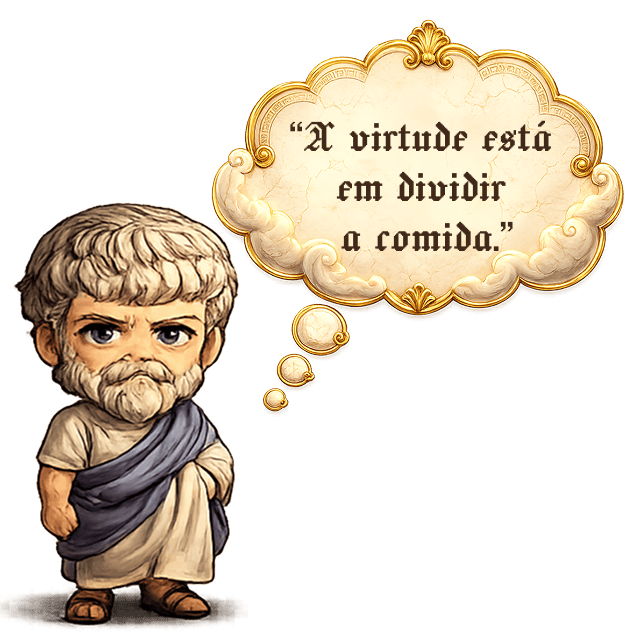
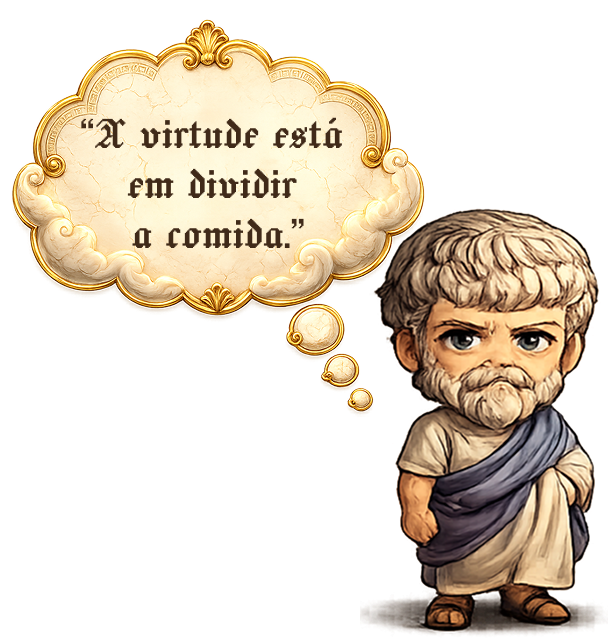
Finalização da tela de simulação do Jantar dos Filósofos

diff --git a/Jantar_Dos_Filosofos/css/style.css b/Jantar_Dos_Filosofos/css/style.css
@@ -2,7 +2,7 @@
 * Autor............: Maxsuel Aparecido Lima Santos
 * Matricula........: 202511587
 * Inicio...........: 27/05/2026
-* Ultima alteracao.: 27/05/2026
+* Ultima alteracao.: 29/05/2026
 * Nome.............: style.css
 * Funcao...........: Estilizacao completa da aplicacao Jantar dos Filosofos.
 ************************************************************************ */
@@ -47,6 +47,168 @@
 }
 
 .btn-start-img:pressed {
+    -fx-scale-x: 0.96;
+    -fx-scale-y: 0.96;
+    -fx-translate-y: 3;
+    -fx-effect: dropshadow(
+        gaussian,
+        rgba(0,0,0,0.9),
+        10,
+        0.25,
+        0,
+        2
+    );
+}
+
+.slider-img .track {
+    -fx-background-color: transparent;
+    -fx-background-image: url("../img/slider.png");
+    -fx-background-size: stretch;
+    -fx-background-repeat: no-repeat;
+    -fx-pref-height: 18px;
+    -fx-cursor: hand;
+}
+
+
+.slider-img .thumb {
+    -fx-background-color: transparent;
+    -fx-background-image: url("../img/slider_button.png");
+    -fx-background-repeat: no-repeat;
+    -fx-background-position: center;
+    -fx-background-size: contain;
+    -fx-padding: 12px;
+    -fx-cursor: hand;
+}
+
+.btn-pausar-img-kant {
+    -fx-background-color: transparent;
+    -fx-background-image: url("../img/pausar_kant.png");
+    -fx-background-size: 100% 100%;
+    -fx-background-repeat: no-repeat;
+    -fx-background-position: center;
+    -fx-cursor: hand;
+}
+
+.btn-pausar-img-kant:hover {
+    -fx-effect: dropshadow(
+        gaussian,
+        rgba(255,190,70,0.85),
+        30,
+        0.45,
+        0,
+        0
+    );
+    -fx-opacity: 1.0;
+}
+
+.btn-pausar-img-nietzsche {
+    -fx-background-color: transparent;
+    -fx-background-image: url("../img/pausar_nietzsche.png");
+    -fx-background-size: 100% 100%;
+    -fx-background-repeat: no-repeat;
+    -fx-background-position: center;
+    -fx-cursor: hand;
+}
+
+.btn-pausar-img-nietzsche:hover {
+    -fx-effect: dropshadow(
+        gaussian,
+        rgba(255,190,70,0.85),
+        30,
+        0.45,
+        0,
+        0
+    );
+    -fx-opacity: 1.0;
+}
+
+.btn-pausar-img-platao {
+    -fx-background-color: transparent;
+    -fx-background-image: url("../img/pausar_platao.png");
+    -fx-background-size: 100% 100%;
+    -fx-background-repeat: no-repeat;
+    -fx-background-position: center;
+    -fx-cursor: hand;
+}
+
+.btn-pausar-img-platao:hover {
+    -fx-effect: dropshadow(
+        gaussian,
+        rgba(255,190,70,0.85),
+        30,
+        0.45,
+        0,
+        0
+    );
+    -fx-opacity: 1.0;
+}
+
+.btn-pausar-img-aristoteles {
+    -fx-background-color: transparent;
+    -fx-background-image: url("../img/pausar_aristoteles.png");
+    -fx-background-size: 100% 100%;
+    -fx-background-repeat: no-repeat;
+    -fx-background-position: center;
+    -fx-cursor: hand;
+}
+
+.btn-pausar-img-aristoteles:hover {
+    -fx-effect: dropshadow(
+        gaussian,
+        rgba(255,190,70,0.85),
+        30,
+        0.45,
+        0,
+        0
+    );
+    -fx-opacity: 1.0;
+}
+
+.btn-pausar-img-socrates {
+    -fx-background-color: transparent;
+    -fx-background-image: url("../img/pausar_socrates.png");
+    -fx-background-size: 100% 100%;
+    -fx-background-repeat: no-repeat;
+    -fx-background-position: center;
+    -fx-cursor: hand;
+}
+
+.btn-pausar-img-socrates:hover {
+    -fx-effect: dropshadow(
+        gaussian,
+        rgba(255,190,70,0.85),
+        30,
+        0.45,
+        0,
+        0
+    );
+    -fx-opacity: 1.0;
+}
+
+.btn-reset {
+    -fx-background-color: transparent;
+    -fx-background-image: url("../img/reset.png");
+    -fx-background-size: 100% 100%;
+    -fx-background-repeat: no-repeat;
+    -fx-background-position: center;
+    -fx-cursor: hand;
+}
+
+.btn-reset:hover {
+    -fx-scale-x: 1.06;
+    -fx-scale-y: 1.06;
+    -fx-effect: dropshadow(
+        gaussian,
+        rgba(255,190,70,0.85),
+        30,
+        0.45,
+        0,
+        0
+    );
+    -fx-opacity: 1.0;
+}
+
+.btn-reset:pressed {
     -fx-scale-x: 0.96;
     -fx-scale-y: 0.96;
     -fx-translate-y: 3;